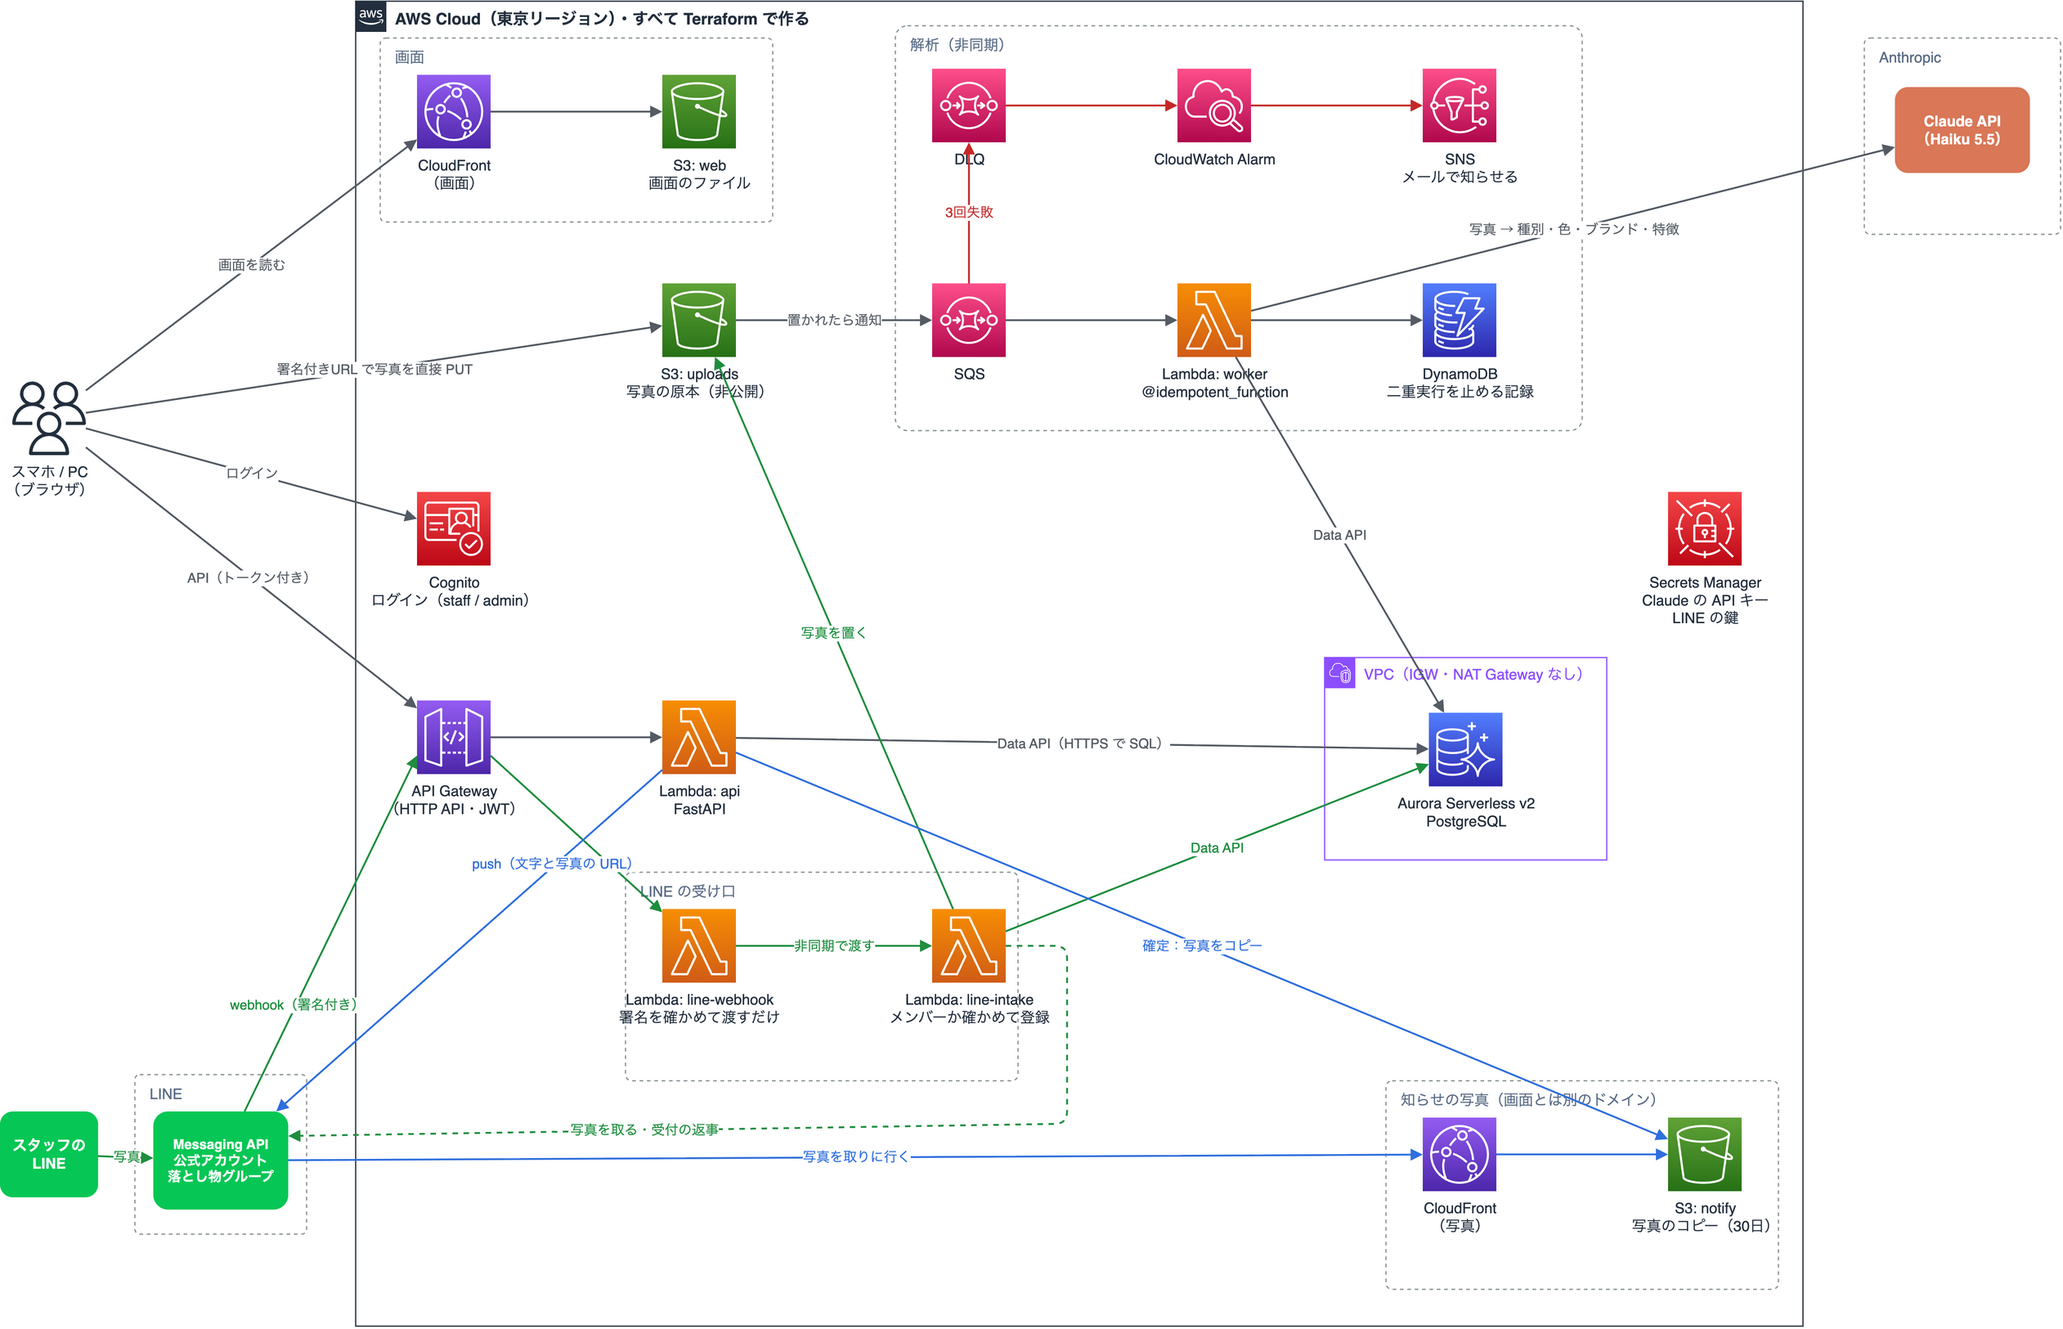
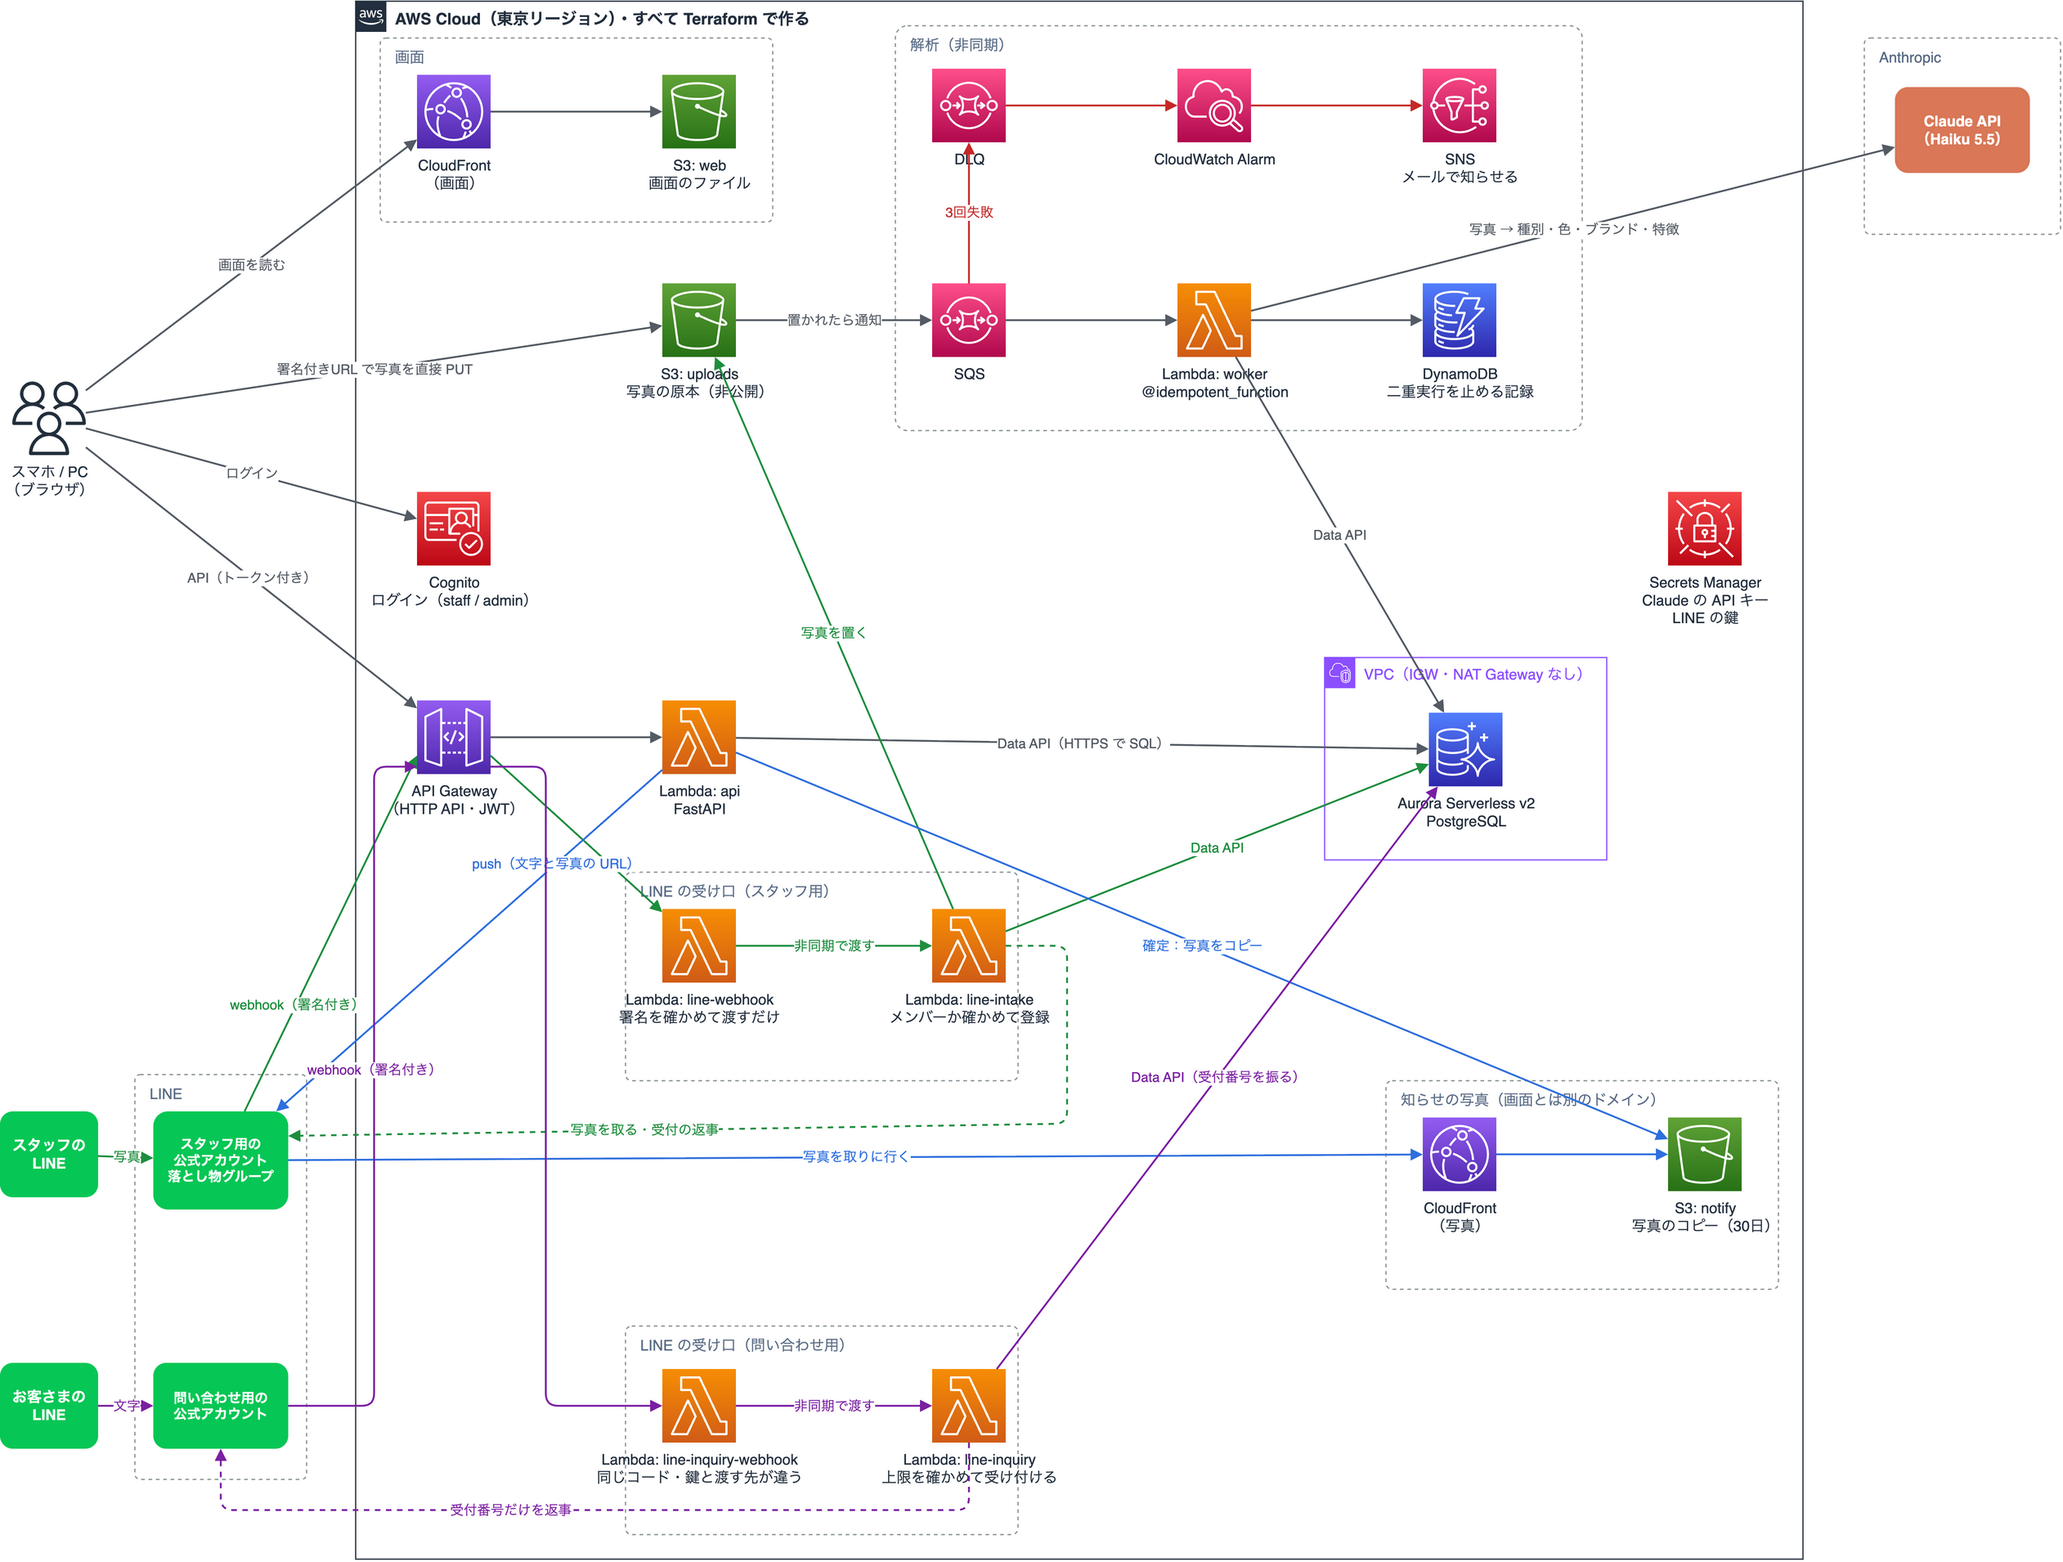
構成図と README に、落とし主の問い合わせを足した（構成図に問い合わせ用の公式アカウントから line-inquiry-webhook・line-inquiry・Aurora までの流れを紫で描き、受付番号の返事を点線にした。README に処理の流れ・設計判断「落とし主には受付番号だけを返す」・セキュリティ・コスト・使い方・ディレクトリを足し、フォーム（LIFF）を作業中として書いた。構成ページの矢印の色の説明に紫を足した）

diff --git a/frontend/src/pages/ArchitecturePage.tsx b/frontend/src/pages/ArchitecturePage.tsx
@@ -27,7 +27,7 @@ export default function ArchitecturePage() {
           />
         </Link>
         <Typography variant="body2" sx={{ mt: 1, color: 'text.secondary' }}>
-          矢印の色：灰＝画面から・緑＝LINE から登録・青＝確定したら知らせる・赤＝失敗したとき。図を押すと大きく開く
+          矢印の色：灰＝画面から・緑＝LINE から登録・青＝確定したら知らせる・紫＝落とし主の問い合わせ・赤＝失敗したとき。図を押すと大きく開く
         </Typography>
       </Paper>
 

diff --git a/README.md b/README.md
@@ -1,6 +1,7 @@
 # photo-intake
 
-**拾得物（落とし物）を写真で登録すると、AI が種別・色・ブランド・特徴を読み取って台帳にする、サーバーレスの管理システム。**
+**拾得物（落とし物）を写真で登録すると、AI が種別・色・ブランド・特徴を読み取って台帳にする、サーバーレスの管理システム。
+落とし主からの問い合わせも LINE で受け付ける。**
 
 AWS のインフラはすべて Terraform で作っている。
 
@@ -21,14 +22,17 @@ AWS のインフラはすべて Terraform で作っている。
    あわせて、**落とし物グループに LINE で写真付きの知らせが届く**（「落とし物のお知らせ／種別：財布…」と写真）
 5. **失敗しても業務は止まらない。** 解析が失敗した行は「解析失敗」になり、画面から人が手で入力して確定できる。
    一時的な失敗は3回までやり直し、それでも駄目ならアラームがメールで知らせる（[詳しく](#失敗したらどうなるか)）
+6. **落とし主が LINE で問い合わせる。** 問い合わせ用の LINE 公式アカウント（スタッフ用とは別）に文字で送ると、
+   受け付けて**受付番号（例：A-0012）だけ**を返す。スタッフは管理画面の「問い合わせ」の一覧で見る
+   （[詳しく](#落とし主には受付番号だけを返す)）
 
-まだ作っていないもの（落とし主の問い合わせ、ベクトル検索、CI）は [まだやっていないこと](#まだやっていないこと) に書いた。
+まだ作っていないもの（問い合わせのフォーム、問い合わせと拾得物の照らし合わせ、CI）は [まだやっていないこと](#まだやっていないこと) に書いた。
 
 ## 構成
 
 ![構成図](frontend/src/architecture.png)
 
-矢印の色：灰＝画面から・緑＝LINE から登録・青＝確定したら知らせる・赤＝失敗したとき。
+矢印の色：灰＝画面から・緑＝LINE から登録・青＝確定したら知らせる・紫＝落とし主の問い合わせ・赤＝失敗したとき。
 
 > 図は draw.io で描いている（`docs/architecture.drawio`）。`make diagram` で PNG に書き出し、README と画面の `/architecture` の両方で同じ画像を使う。
 
@@ -52,7 +56,7 @@ AWS のインフラはすべて Terraform で作っている。
 | DB | Aurora Serverless v2（PostgreSQL）を Data API で使う。使われないときは自動で止まる |
 | 非同期 | S3 イベント → SQS（+ DLQ）→ Lambda（worker）。二重実行は Powertools の `@idempotent_function` + DynamoDB で止める |
 | AI | Claude API（Haiku 5.5）を直接呼ぶ（本来は Bedrock。[理由](#今は代わりのものを使っているところ)） |
-| LINE | Messaging API。受け口は API Gateway → Lambda（line-webhook → line-intake）、知らせは API から push |
+| LINE | Messaging API。公式アカウントはスタッフ用と問い合わせ用の2つ。受け口はどちらも API Gateway → Lambda（受け口 → 処理の2つ）、確定の知らせは API から push |
 | IaC | Terraform |
 | テスト | pytest + moto（AWS に繋がずに動く）、mypy（strict）、ruff、Oxlint |
 
@@ -111,7 +115,23 @@ S3 のキーを LINE のメッセージ ID から決め、DB には `ON CONFLICT
 スタッフの ID の一覧は持たないので、人の出入りは LINE の中（グループに招待する・外す）で済む。
 
 受け口のコード（`backend/line/webhook.py`）は、署名を確かめる鍵と渡す先を環境変数で受け取る。
-公式アカウントを増やすとき（落とし主の問い合わせ用など）も、同じコードをもう1つ置けばよい。
+落とし主の問い合わせ用の公式アカウントには、同じコードをもう1つ置いている（line-inquiry-webhook → line-inquiry）。
+LINE の Webhook URL は公式アカウントごとに1つなので、API Gateway のルートも分ける（`POST /line/webhook` と `POST /line/inquiry/webhook`）。
+LINE の API の呼び出し・DB への SQL・鍵の読み込みは、処理をする2つの Lambda で共通なので `backend/line/line_common.py` にまとめた。
+
+### 落とし主には受付番号だけを返す
+問い合わせ用の公式アカウントは、スタッフ用とは分けている。お客さまにスタッフ用のメニューや落とし物グループを見せないため。
+
+- **お客さまに返すのは受付番号だけ。** 落とし物の ID・写真・候補は見せない。見せると、持ち主でない人が「それは私のです」と名乗れる。
+  照らし合わせはスタッフが確かめてから連絡する。落とし物の ID を見せないのは、知らせの写真の URL がその ID から作られているためでもある
+- **スタッフの落とし物グループには知らせない。** あのグループは社内の落とし物の情報を共有する場所で、お客さまの問い合わせは混ぜない。
+  問い合わせは管理画面の一覧（`GET /requests`）で見る。だから line-inquiry が読める鍵は**問い合わせ用のアクセストークン1つだけ**
+- **大量に送られても困らないようにする。** 1人あたり直近24時間に5件まで、1件500文字まで。超えた分は保存せず、そう返事するだけ。
+  件数は `(line_user_id, created_at)` の索引で数える
+- **送り直しで二重に受け付けない。** LINE のメッセージ ID を UNIQUE の列に入れ、`INSERT … ON CONFLICT DO NOTHING RETURNING receipt_no` で、
+  行と受付番号を1つにする。受付番号は DB の IDENTITY 列が振る
+- **受付番号は確実に届ける。** 返事（reply）は無料だが、届いたイベントのトークンで短い時間しか使えない。DB の起動待ちで1分後のやり直しになると
+  トークンが切れているので、そのときは push で送り直す
 
 ### 知らせの写真は、別のバケットと別のドメインから出す
 LINE の画像メッセージは、写真の URL を送り、LINE のサーバーがその URL から取りに行く。だから**ログインなしで開ける HTTPS の URL** が要る。
@@ -201,7 +221,9 @@ Terraform の state は**今はローカル**（`infra/envs/dev/terraform.tfstat
   HTTP（暗号化なし）のリクエストはバケットのポリシーで断る。LINE の知らせに出すのは、確定した写真のコピーだけ（30日・別のドメイン。[詳しく](#知らせの写真は別のバケットと別のドメインから出す)）
 - **S3 は直接公開しない。** 画面と知らせの写真も、S3 はパブリックアクセスを全部ブロックしたまま、CloudFront だけに読ませる（OAC）。
   CloudFront はセキュリティのヘッダー（`nosniff`、HSTS、`X-Frame-Options` など）を付けて返す
-- **LINE からのリクエストは、署名を確かめる。** 受け口は、LINE のチャネルシークレットで作った署名（HMAC-SHA256）が合わなければ 401 で断る
+- **LINE からのリクエストは、署名を確かめる。** 受け口は、LINE のチャネルシークレットで作った署名（HMAC-SHA256）が合わなければ 401 で断る。
+  公式アカウントごとに鍵が違い、それぞれの受け口が読めるのは自分のアカウントのチャネルシークレットだけ
+- **問い合わせには上限を付ける。** 1人あたり直近24時間に5件・1件500文字まで。お客さまに返すのは受付番号だけ（[詳しく](#落とし主には受付番号だけを返す)）
 - **撮影場所を残さない。** 写真の EXIF（位置情報など）は、送る前にブラウザの中で消す
 - **認証は API Gateway、認可は API。** ログインしているか（Cognito の JWT）は API Gateway が Lambda の手前で確かめる。
   admin だけの操作（確定）は API が確かめて 403 を返す。画面でボタンを隠すのは見た目の都合にすぎない
@@ -217,9 +239,9 @@ Terraform の state は**今はローカル**（`infra/envs/dev/terraform.tfstat
 
 | 状態 | かかるもの |
 |---|---|
-| 使っていない間 | Secrets Manager（3つで $1.20/月）・CloudWatch Alarm（$0.10/月）・Aurora のストレージ。Aurora は最後の SQL から5分で止まり、止まっている間の計算の料金はかからない |
+| 使っていない間 | Secrets Manager（5つで $2.00/月）・CloudWatch Alarm（$0.10/月）・Aurora のストレージ。Aurora は最後の SQL から5分で止まり、止まっている間の計算の料金はかからない |
 | 使っている間 | 上に加えて Aurora の稼働時間（0〜1 ACU）。Lambda・API Gateway・SQS・S3・DynamoDB・CloudFront は使った分だけで、この量ならほぼ $0 |
-| LINE | 無料のプランの中（push は月200通まで。受付の返事は reply なので数えない） |
+| LINE | 無料のプランの中（push は公式アカウントごとに月200通まで。受付の返事は reply なので数えない） |
 | AI | 写真1枚あたり約 $0.0004（実測：入力 2,553・出力 371 トークン、Haiku 5.5） |
 | `make destroy` 済み | **$0** |
 
@@ -232,7 +254,7 @@ Terraform の state は**今はローカル**（`infra/envs/dev/terraform.tfstat
 - Terraform 1.11 以上
 - AWS CLI v2。IAM Identity Center のプロファイルを `aws configure sso` で `photo-intake` という名前で作っておく（Makefile がこの名前を使う）
 - uv（Python の実行と依存の管理）、Node.js
-- LINE を使うなら、LINE Developers で Messaging API のチャネル（公式アカウント）を作っておく
+- LINE を使うなら、LINE Developers で Messaging API のチャネル（公式アカウント）を作っておく。問い合わせも受けるなら、もう1つ作る
 - 構成図を直すなら、draw.io のアプリ（`brew install --cask drawio`）
 
 初めて作るとき：
@@ -272,6 +294,20 @@ terraform -chdir=infra/envs/dev output line_webhook_url   # これを LINE Devel
 - 落とし物グループを LINE で作り、ボットを招待する。line-intake のログ（CloudWatch Logs）に出たグループの ID を、
   `terraform.tfvars` の `line_group_id` に書いて `make apply`。人がログから写して書くことが、「このグループを落とし物グループにしてよい」という承認になる
 
+問い合わせも受けるとき：
+
+```bash
+# 問い合わせ用の公式アカウントの鍵を2つ入れる（スタッフ用とは別の値）
+read -s KEY && AWS_PROFILE=photo-intake aws secretsmanager put-secret-value \
+  --secret-id photo-intake-dev/line-inquiry-channel-secret --secret-string "$KEY" && unset KEY
+read -s KEY && AWS_PROFILE=photo-intake aws secretsmanager put-secret-value \
+  --secret-id photo-intake-dev/line-inquiry-channel-access-token --secret-string "$KEY" && unset KEY
+
+terraform -chdir=infra/envs/dev output line_inquiry_webhook_url   # 問い合わせ用のチャネルの Webhook URL に入れて「検証」
+```
+
+- 問い合わせ用の公式アカウントでは、LINE が用意した自動の「応答メッセージ」を切り、グループへの参加を許可しない設定にする
+
 ふだん使うもの：
 
 ```bash
@@ -294,9 +330,10 @@ cd frontend && npx tsc -b && npx oxlint
 ```
 infra/envs/dev/      Terraform（root module。terraform はここで実行する）
 backend/
-├── api/             API の Lambda（FastAPI）。確定したら LINE で知らせる（line_notify.py）
+├── api/             API の Lambda（FastAPI）。確定したら LINE で知らせる（line_notify.py）。問い合わせの一覧（routers/requests.py）
 ├── worker/          解析の Lambda
-├── line/            LINE の Lambda（webhook.py：受け口、intake.py：写真を登録する）
+├── line/            LINE の Lambda（webhook.py：受け口・2つのアカウントで共通、intake.py：写真を登録する、
+│                    inquiry.py：問い合わせを受け付ける、line_common.py：intake と inquiry の共通の部品）
 ├── migrations/      DB の表（SQL）
 └── tests/           pytest + moto
 frontend/            画面（React）
@@ -311,9 +348,10 @@ docs/
 
 ## まだやっていないこと
 
-- **落とし主の問い合わせ：** 問い合わせ用の LINE 公式アカウントを足し、落とし主が文字で送った問い合わせを受け付けて受付番号を返す。
-  スタッフは管理画面と落とし物グループで見る。落とし主には、写真も候補も見せない（持ち主でない人が名乗り出るのを防ぐため）
-- **問い合わせとの照合：** 問い合わせの自由文と拾得物を埋め込み（ベクトル）にして、pgvector で近いものを探す。候補はスタッフが確かめてから連絡する
+- **問い合わせのフォーム（作業中）：** 今はトークの自由な文を受け付けるので、日時や場所が抜けていても受け付けてしまい、
+  管理画面からは「誰から」も分からない。LINE の中で開くフォーム（LIFF）にして、種類・色・特徴・落とした日・場所を全部埋めないと送れないようにする。
+  LIFF のログインで得た ID トークンを API が LINE に確かめてもらい、LINE の利用者 ID と表示名を問い合わせに付ける
+- **問い合わせとの照合：** 問い合わせと拾得物を埋め込み（ベクトル）にして、pgvector で近いものを探す。候補はスタッフが確かめてから連絡する
 - **CI：** GitHub Actions + OIDC（キーを持たない）。PR に `terraform plan` の結果を出し、merge で apply。その前に state を S3 に移す
 - **本来の形に戻す：** Bedrock（`analyzer = "bedrock"`）は、アカウントの制限が解けたら
 - **CSP**（上のセキュリティの節）
